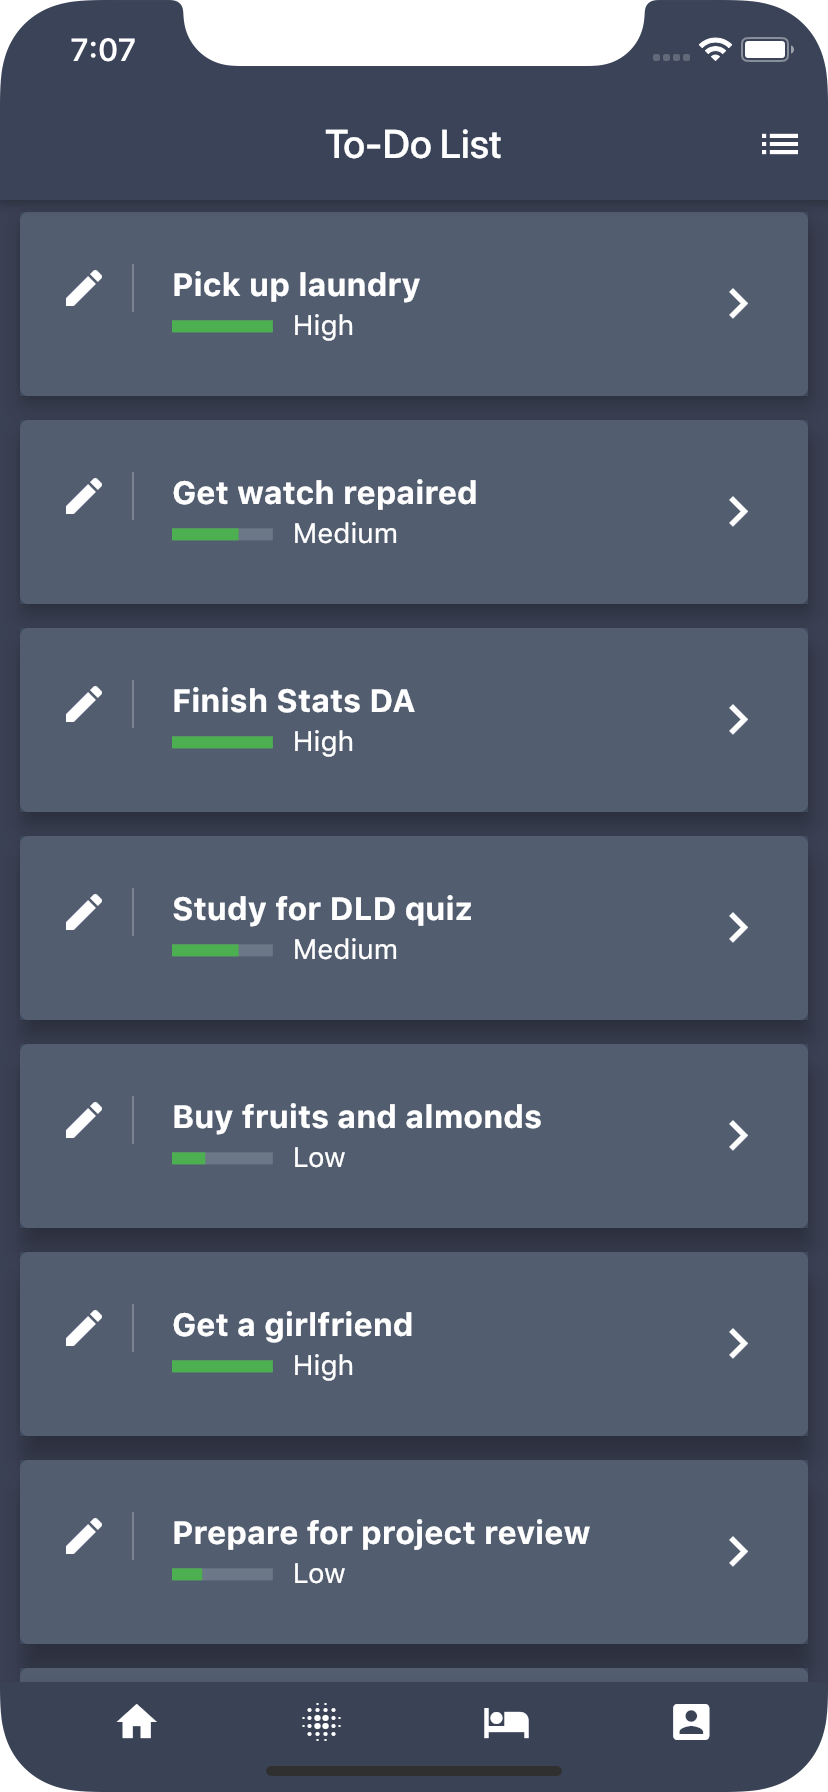
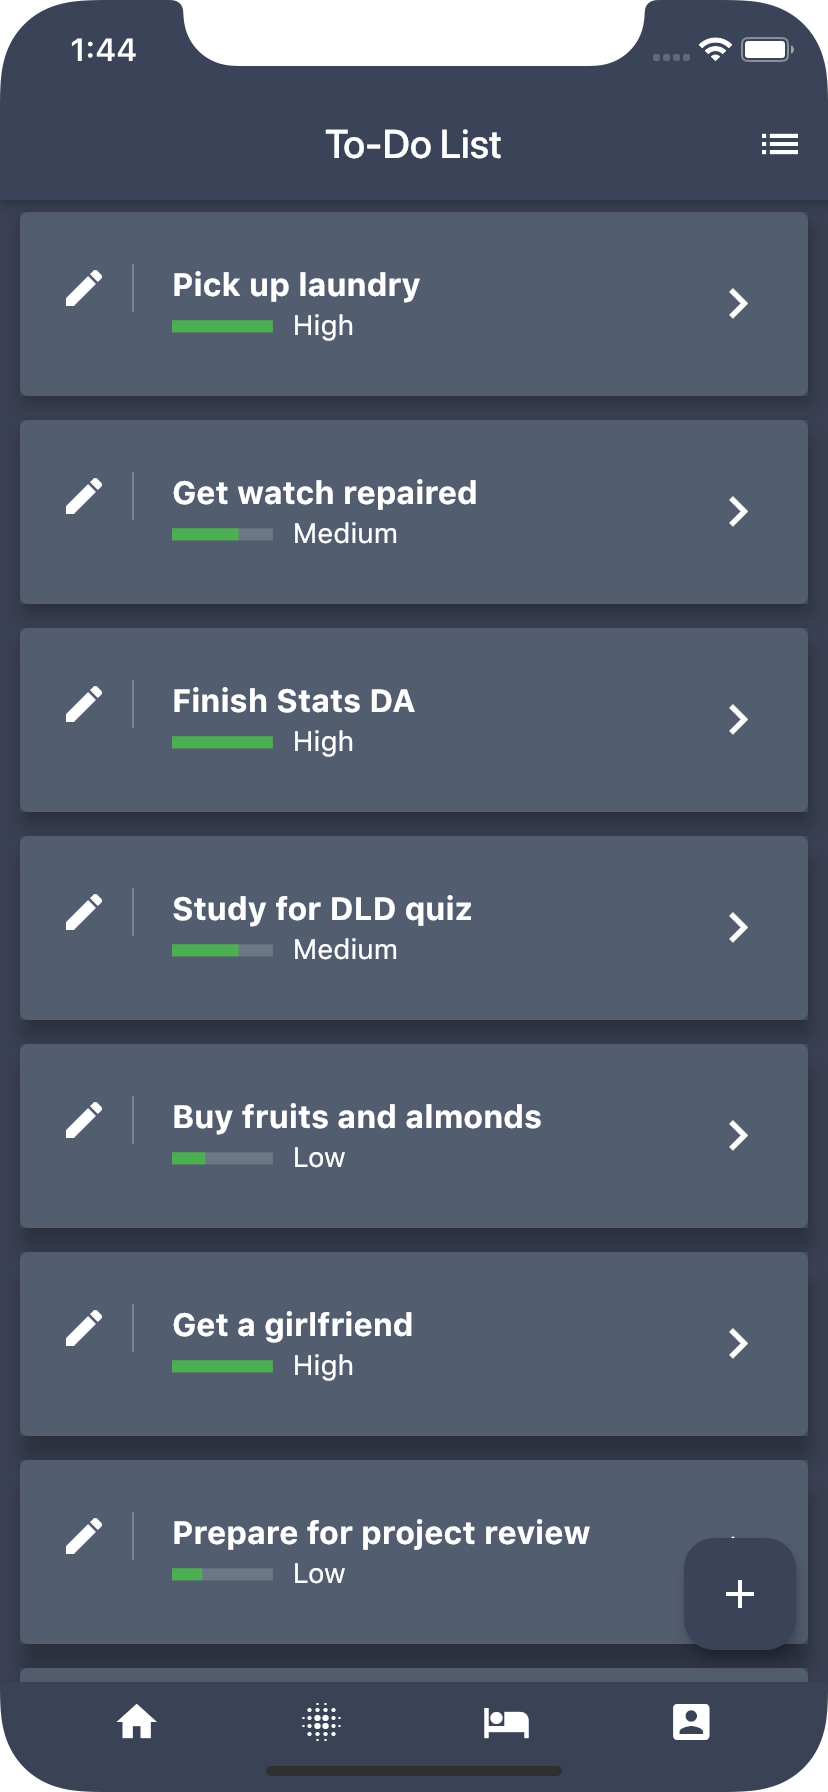
Users can now add tasks to the list

Changed region(s): [[0.8152, 0.8438, 0.9662, 0.9375], [0.0906, 0.0, 0.151, 0.0312]]

diff --git a/lib/main.dart b/lib/main.dart
@@ -14,29 +14,143 @@ class MyApp extends StatelessWidget {
   }
 }
 
-class HomePage extends StatelessWidget {
+class HomePage extends StatefulWidget {
+
+  @override
+  _HomePageState createState() => _HomePageState();
+}
+
+class _HomePageState extends State<HomePage> {
+
+  TextEditingController _titleController = TextEditingController();
+  TextEditingController _priorityController = TextEditingController();
+  TextEditingController _valueController = TextEditingController();
 
   @override
   Widget build(BuildContext context) {
     return Scaffold(
-        backgroundColor: Color.fromRGBO(59, 65, 84, 1.0),
-        appBar: makeAppBar,
-        bottomNavigationBar: makeBottom,
-        body: makeBody);
+      backgroundColor: Color.fromRGBO(59, 65, 84, 1.0),
+      appBar: makeAppBar,
+      bottomNavigationBar: makeBottom,
+      body: Container(
+        child: ListView.builder(
+          scrollDirection: Axis.vertical,
+          shrinkWrap: true,
+          itemCount: getTasks.length,
+          itemBuilder: (BuildContext context, int index) {
+            return makeCard(getTasks[index]);
+          },
+        ),
+      ),
+
+      floatingActionButton: FloatingActionButton(
+        onPressed: (){
+          return showDialog(
+            context: context, 
+            barrierDismissible: false,
+            builder: (BuildContext context) {
+              return AlertDialog(
+                shape: RoundedRectangleBorder(borderRadius: BorderRadius.circular(10)),
+                actions: <Widget>[
+                  FlatButton(
+                    onPressed: (){
+                      Navigator.of(context).pop();
+                      _priorityController.clear();
+                      _titleController.clear();
+                      _valueController.clear();
+                    },
+                    child: Text('CANCEL', style: TextStyle(
+                      color: Colors.white
+                    ),),
+                  ),
+                  FlatButton(
+                    onPressed: (){
+                      Navigator.of(context).pop();
+                      setState(() {
+                        getTasks.add(
+                          Task(
+                          indicatorValue: double.parse(_valueController.text), 
+                          title: _titleController.text, 
+                          priority: _priorityController.text
+                          )
+                        );
+                        print(getTasks.length);
+                      });
+                    },
+                    child: Text('ADD', style: TextStyle(
+                      color: Colors.white
+                    ),),
+                  ),
+                ],
+                backgroundColor: Color.fromRGBO(59, 67, 88, 1.0),
+                title: Column(
+                  children: <Widget>[
+                    Center(
+                      child: Text('Add a new task', style: TextStyle(
+                        color: Colors.white
+                      ),)
+                    ),
+                    SizedBox(height: 20,),
+                    TextField(
+                      textInputAction: TextInputAction.next,
+                      controller: _titleController,
+                      decoration: InputDecoration(
+                        hintText: "Enter Task",
+                        hintStyle: TextStyle(
+                          color: Colors.white
+                        )
+                      ),
+                      style: TextStyle(color: Colors.white),
+                    ),
+                    TextField(
+                      textInputAction: TextInputAction.next,
+                      controller: _priorityController,
+                      decoration: InputDecoration(
+                        hintText: "Enter Priority",
+                        hintStyle: TextStyle(
+                          color: Colors.white
+                        )
+                      ),
+                      style: TextStyle(color: Colors.white),
+                    ),
+                    TextField(
+                      textInputAction: TextInputAction.done,
+                      controller: _valueController,
+                      keyboardType: TextInputType.number,
+                      decoration: InputDecoration(
+                        hintText: "Enter Progress Value",
+                        hintStyle: TextStyle(
+                          color: Colors.white
+                        )
+                      ),
+                      style: TextStyle(color: Colors.white),
+                    ),
+                  ],
+                )
+              );
+            }
+          );
+        },
+        child: Icon(Icons.add,),
+        backgroundColor: Color.fromRGBO(59, 67, 88, 1.0),
+        shape: RoundedRectangleBorder(borderRadius: BorderRadius.circular(15)),
+      ),
+    );
   }
 }
 
 final makeAppBar = AppBar(
-    elevation: 5,
-    backgroundColor: Color.fromRGBO(59, 67, 88, 1.0),
-    title: Text("To-Do List"),
-    centerTitle: true,
-    actions: <Widget>[
-      IconButton(
-        icon: Icon(Icons.list),
-        onPressed: () {},
-      )
-    ]);
+  elevation: 5,
+  backgroundColor: Color.fromRGBO(59, 67, 88, 1.0),
+  title: Text("To-Do List"),
+  centerTitle: true,
+  actions: <Widget>[
+    IconButton(
+      icon: Icon(Icons.list),
+      onPressed: () {},
+    )
+  ]
+);
 
 final makeBottom = Container(
   height: 55.0,
@@ -66,18 +180,9 @@ final makeBottom = Container(
   ),
 );
 
-final makeBody = Container(
-  child: ListView.builder(
-    scrollDirection: Axis.vertical,
-    shrinkWrap: true,
-    itemCount: getTasks.length,
-    itemBuilder: (BuildContext context, int index) {
-      return makeCard(getTasks[index]);
-    },
-  ),
-);
 
  Card makeCard(Task task) => Card(
+  key: ValueKey(task.title),
   elevation: 8.0,
   margin: new EdgeInsets.symmetric(horizontal: 10.0, vertical: 6.0),
   child: Container(
@@ -87,6 +192,7 @@ final makeBody = Container(
 );
 
 ListTile makeListTile(Task task) => ListTile(
+
   contentPadding:
       EdgeInsets.symmetric(horizontal: 20.0, vertical: 10.0),
   leading: Container(
@@ -100,8 +206,6 @@ ListTile makeListTile(Task task) => ListTile(
     task.title,
     style: TextStyle(color: Colors.white, fontWeight: FontWeight.bold),
   ),
-
-
   subtitle: Row(
     children: <Widget>[
       Expanded(
